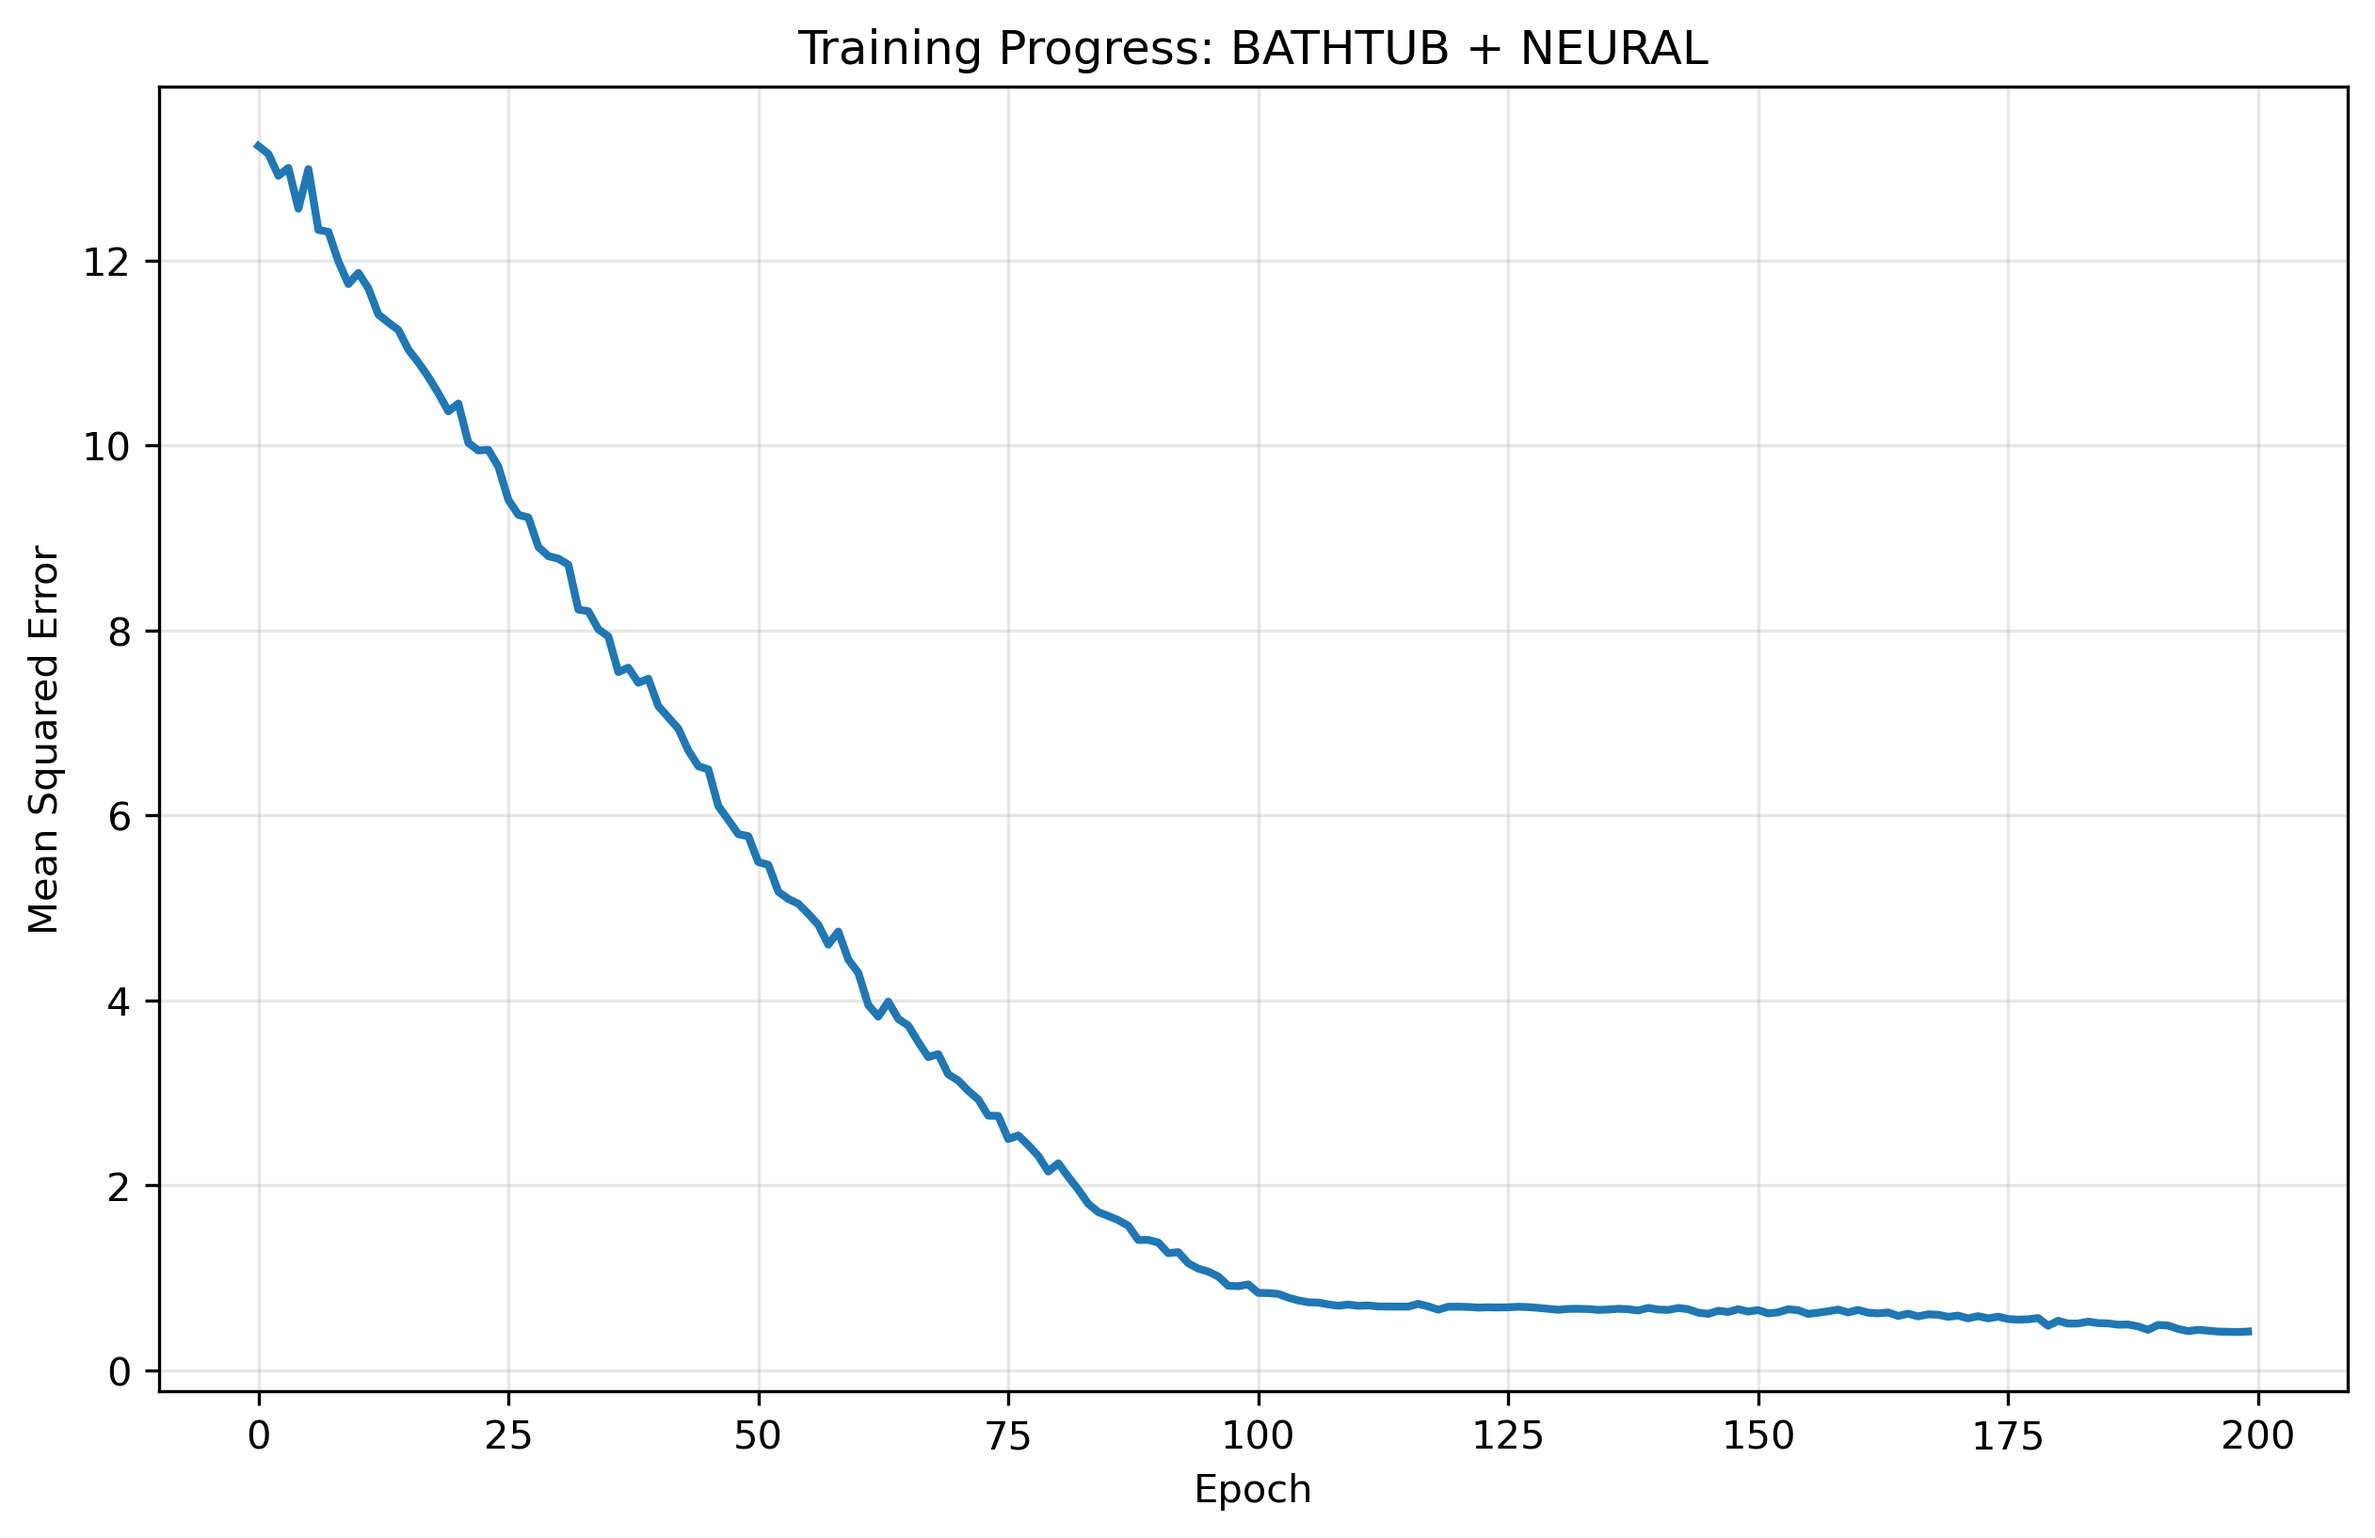
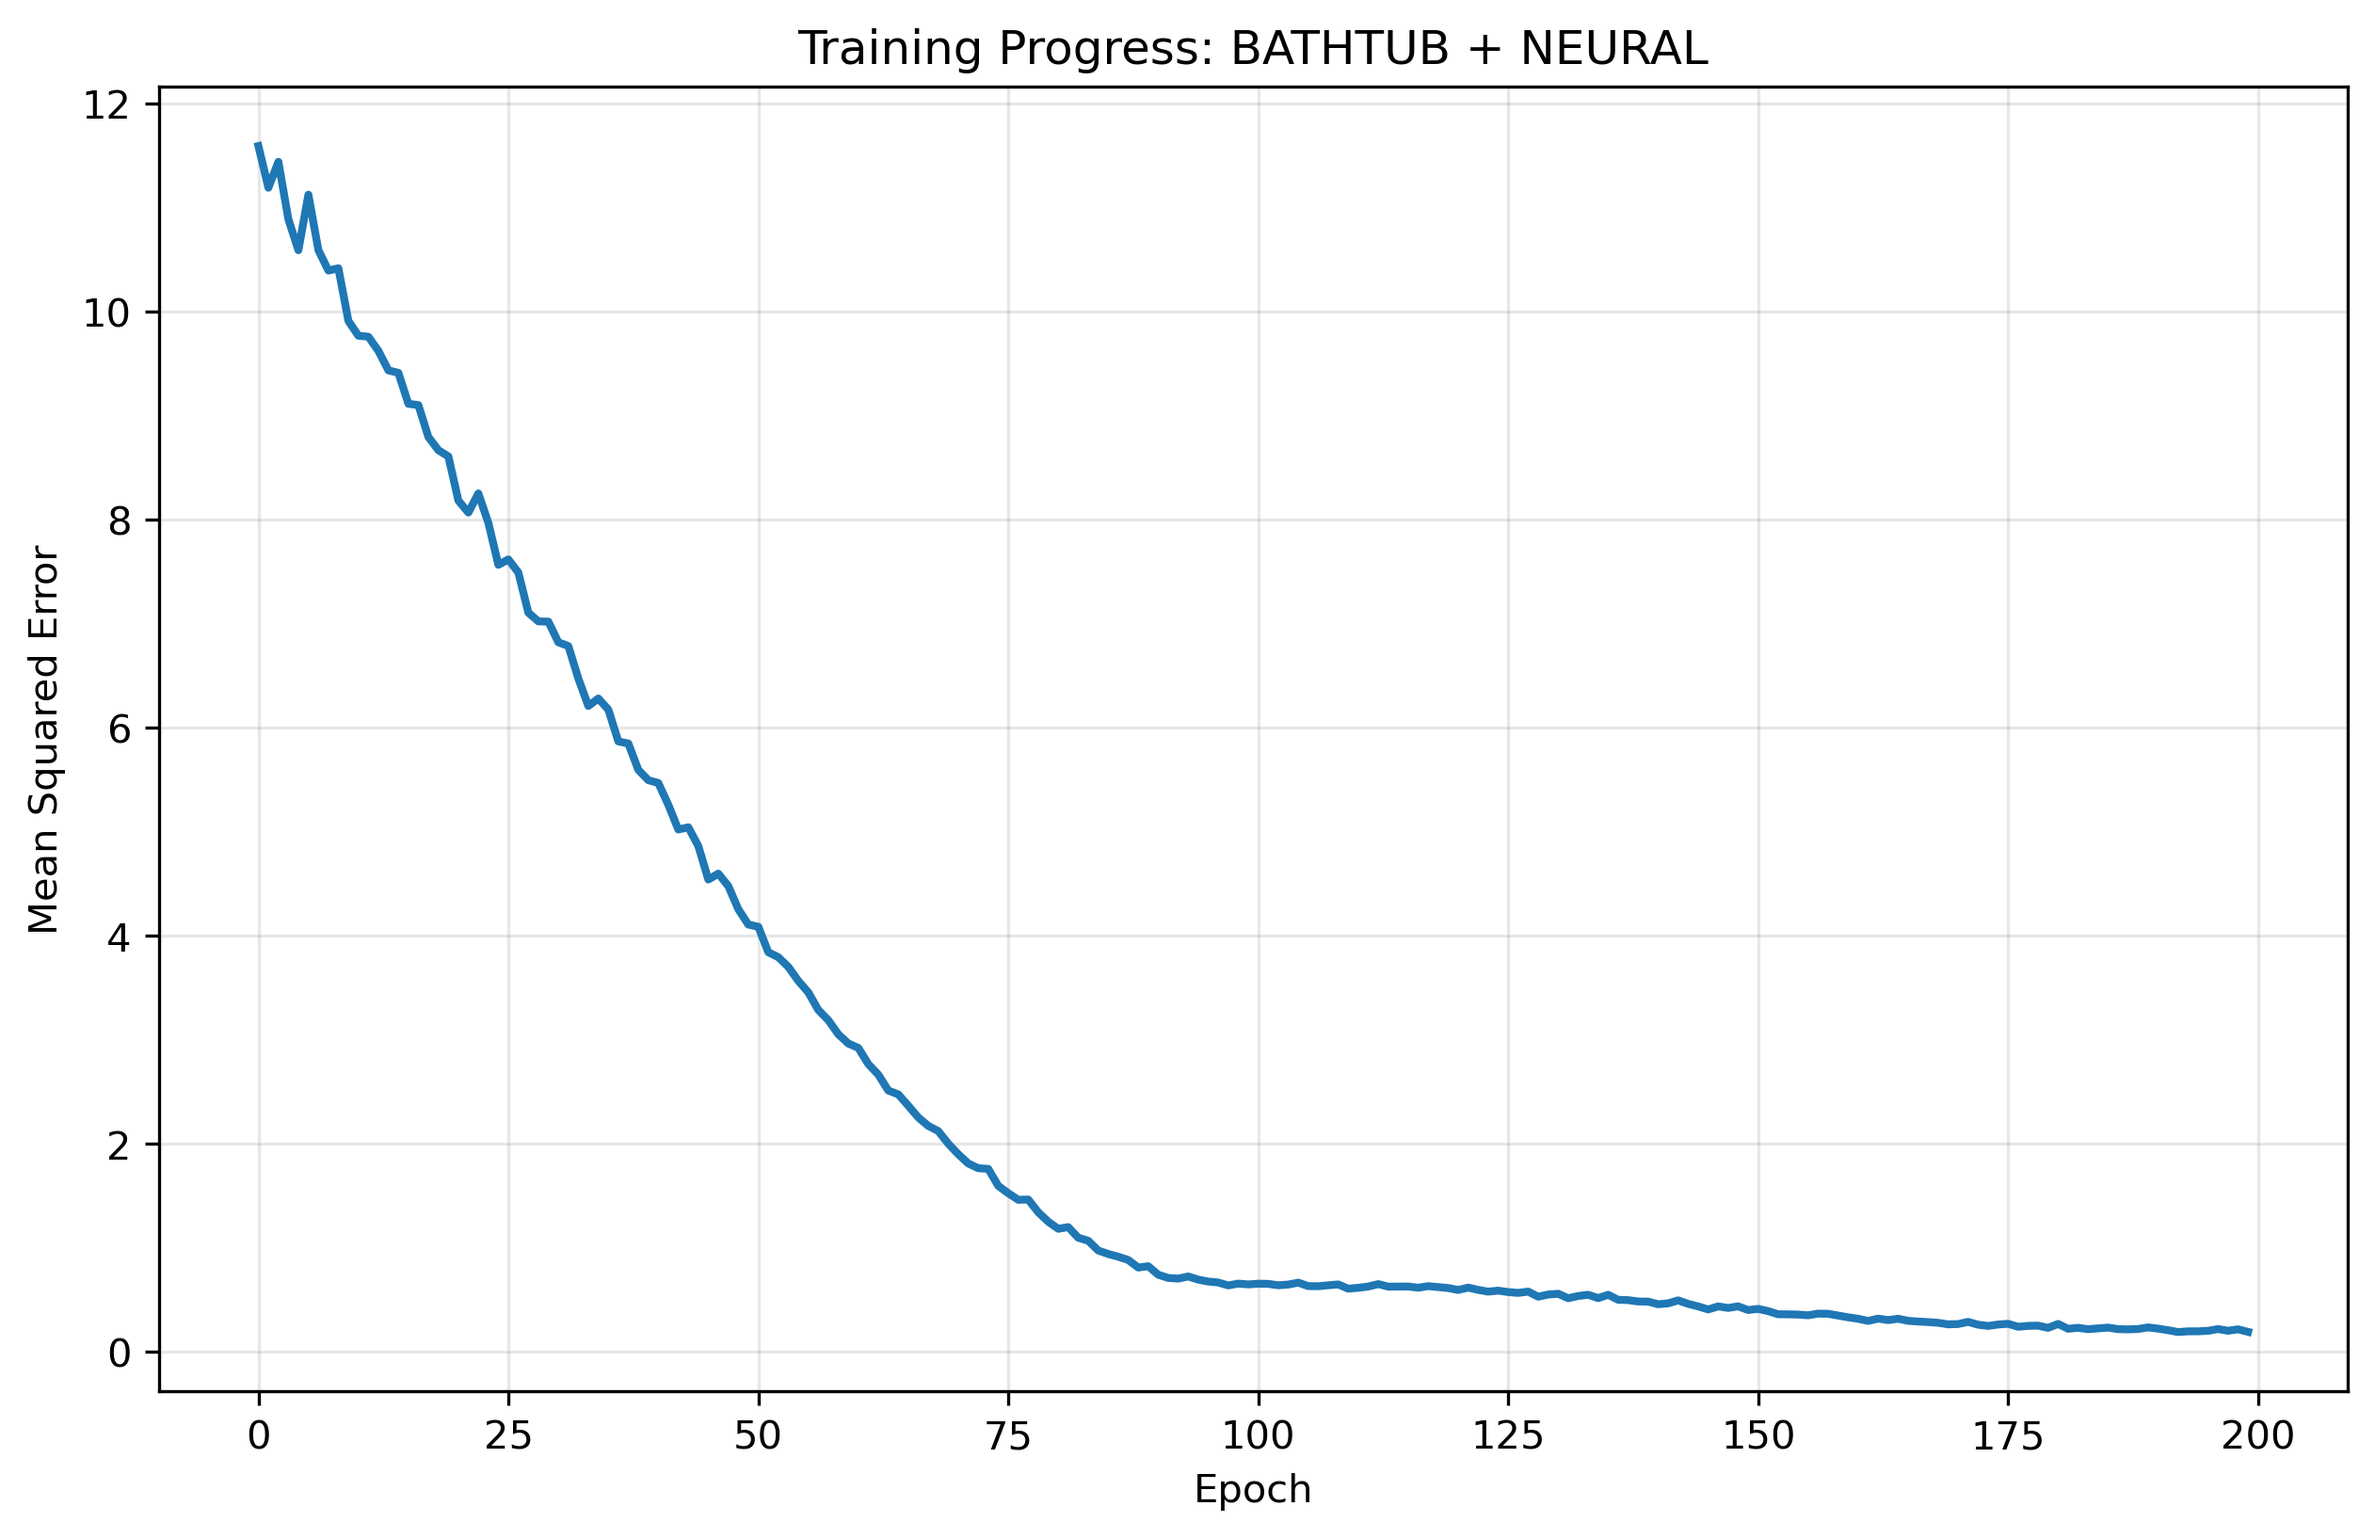
implemented random seed and ran all 6

diff --git a/config.py b/config.py
@@ -4,17 +4,17 @@ EDIT THIS FILE to configure your experiment.
 All pivotal parameters are set here in ONE PLACE.
 """
 
-PLANT = "norway_population"  # "bathtub" | "cournot" | "norway_population"
-CONTROLLER = "neural"  # "pid" | "neural"
+PLANT = "bathtub"  # "bathtub" | "cournot" | "norway_population"
+CONTROLLER = "pid"  # "pid" | "neural"
 
 VERBOSE = True  # Print progress during training
 
 TRAINING_EPOCHS = 200
 SIMULATION_TIMESTEPS = 100
-LEARNING_RATE = 0.0001  # Bathtub: small errors now, same as Cournot
+LEARNING_RATE = 0.01  # Bathtub: small errors now, same as Cournot
 
 # PID Controller
-PID_INITIAL_PARAMS = [0.3, 0.02, 0.01]  # Initial [kp, ki, kd] values
+PID_INITIAL_PARAMS = [0.2, 0.05, 0.01]  # Initial [kp, ki, kd] values
 
 # Neural Network Controller
 NEURAL_NETWORK = {

diff --git a/main.py b/main.py
@@ -3,12 +3,16 @@
 TO CONFIGURE: Edit config.py
 TO RUN: python main.py
 """
+import numpy as np
 import config as config
 from consys import train, plot_results
 
 
 def main():
     """Run training experiment."""
+    # Set random seed for reproducibility
+    np.random.seed(config.RANDOM_SEED)
+
     # Train controller
     params, mse_history, param_history = train()
 
